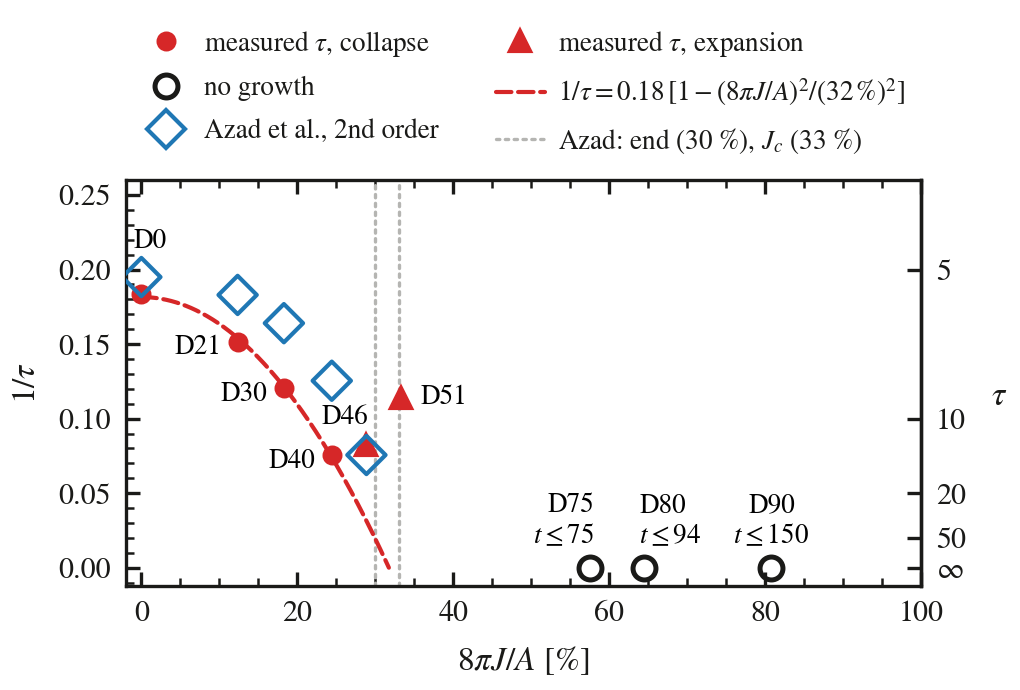
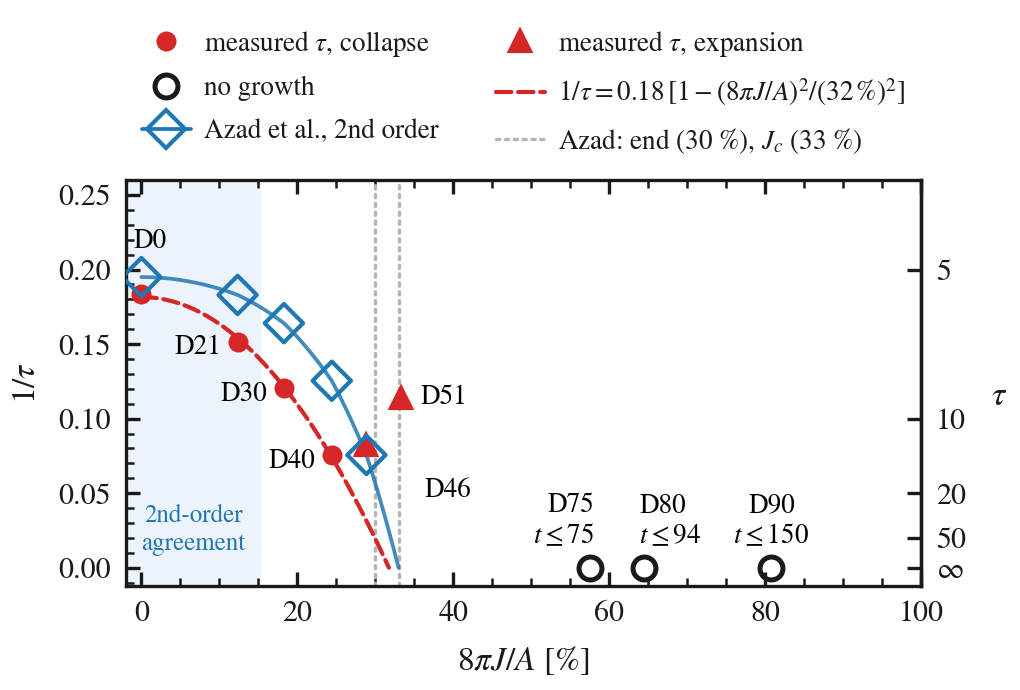
Spinning curve: Azad's J^2 law drawn, 2nd-order agreement band
Their rate drawn as the curve it is, 1/tau = [W0 - DW2 (J/eta0^2)^2]
/ eta0, J mapped onto 8 pi J/A through the rungs' tables -- the
measured collapse rates leave it as spin grows, the O(J^4) gap (0 %
at D0, 10 % at D21 in the continuum, 36/66 % at D30/D40). A light
band to halfway between D21 and D30 marks where the methods agree,
tagged in the frame; the D46 tag moves below the rules, clear of the
new curve. Caption updated; label audit clean.

diff --git a/grteclyn-wrapper/src/grteclyn_wrapper/visualisation/spinning_wormhole/plot_instability_curve.py b/grteclyn-wrapper/src/grteclyn_wrapper/visualisation/spinning_wormhole/plot_instability_curve.py
@@ -116,7 +116,7 @@ TAG_SIDES = {
     "D21": (-4, -1.5, "right", "center"),
     "D30": (-4, -1.5, "right", "center"),
     "D40": (-4, -1.5, "right", "center"),
-    "D46": (0.5, 3.5, "right", "bottom"),
+    "D46": (14, -8, "left", "top"),   # below right, clear of Azad's drawn law and the rules
     "D51": (4.5, 0, "left", "center"),
     # the stable rungs sit 12 pt apart: D75's tag hangs left, D80's right
     "D75": (1, 4.5, "right", "bottom"),
@@ -272,6 +272,15 @@ def draw(points, pal, jc_frac) -> None:
     for x in rules:
         ax.axvline(x, color="#b5b5b2", lw=0.8, ls=":")
     drawn = [p for p in points if p["tau"] is not None or p["stable"]]
+    # 10-21: where the second order should and does hold -- the static and D21
+    # continuum rates sit within 8 % of Azad's values, and from D30 (18 %) the gap
+    # exceeds the resolution bias.  The band ends halfway between the two rungs.
+    fr_by = {p["label"]: p["frac"] for p in points}
+    if "D21" in fr_by and "D30" in fr_by:
+        edge = 0.5 * (fr_by["D21"] + fr_by["D30"])
+        ax.axvspan(-2.0, edge, facecolor="#edf3fa", zorder=0)
+        ax.text(0.5 * (-2.0 + edge), 0.008, "2nd-order\nagreement", fontsize=6.0,
+                ha="center", va="bottom", color=pal["azad"])
     az = [(p["frac"], azad_rate(p["j"])) for p in drawn if azad_rate(p["j"]) > 0]
     if az:
         # Open diamonds over smaller dots: where a rung matches Azad the dot
@@ -279,6 +288,15 @@ def draw(points, pal, jc_frac) -> None:
         # audit sees the diamonds and not the undrawn segments between them.
         ax.scatter(*zip(*az), marker="D", s=6.5 ** 2, facecolors="none",
                    edgecolors=pal["azad"], linewidths=1.0, zorder=5)
+        # 10-21: their law drawn as the curve it is, 1/tau = [W0 - DW2 (J/eta0^2)^2]
+        # / eta0, J mapped onto 8 pi J/A through the rungs' tables (the diamonds'
+        # own mapping): the measured rates leave it as spin grows -- the O(J^4) gap.
+        pj = sorted((p["j"], p["frac"]) for p in drawn)
+        js2 = np.array([q[0] for q in pj])
+        fr2 = np.array([q[1] for q in pj])
+        jg = np.linspace(0.0, ETA0 ** 2 * np.sqrt(AZAD_W0 / AZAD_DW2), 300)
+        ax.plot(np.interp(jg, js2, fr2), azad_rate(jg), ls="-", lw=0.9,
+                color=pal["azad"], alpha=0.85, zorder=3)
     fit = fit_zero(drawn)
     x0 = None
     if fit is not None:
@@ -336,8 +354,9 @@ def draw(points, pal, jc_frac) -> None:
                else "collapse fit")
         entries.append((fit_line, tag))
     if az:
-        entries.append((mlines.Line2D([], [], marker="D", ls="none", ms=6.5, mfc="none",
-                                      mec=pal["azad"], mew=1.0), "Azad et al., 2nd order"))
+        entries.append((mlines.Line2D([], [], marker="D", ls="-", lw=0.9, ms=6.5,
+                                      mfc="none", mec=pal["azad"], mew=1.0,
+                                      color=pal["azad"]), "Azad et al., 2nd order"))
     entries.append((mlines.Line2D([], [], ls=":", lw=0.8, color="#b5b5b2"),
                     "Azad: end (30 %)" + (f", $J_c$ ({jc_frac:.0f} %)" if jc_frac else "")))
     # 2026-10-20: two columns, read row by row (one entry a row took a third of the

diff --git a/research/spinningwormhole/article/research.tex b/research/spinningwormhole/article/research.tex
@@ -342,7 +342,7 @@ Three checks validate the pipeline. (i) At $t=0$ the Hamiltonian and momentum co
 \begin{figure}[t]
 \centering
 \includegraphics[width=\columnwidth]{instability_curve.pdf}
-\caption{The inverse $e$-fold time $1/\tau$ of the throat's areal radius (left axis; $\tau$ on the right) against the angular momentum as a fraction of its extremal value. Filled circles: collapsing models; filled triangles: expanding models; open circles: D75, D80 and D90, no growth within the converged span ($t\le75$, 94, 150); every $\tau$ is the offset-free fit of Sec.~\ref{sec:slow} and a row of Table~\ref{tab:ladder}. Dashed: the fit $a-b\,(J/A)^2$ through the collapse branch alone, zero at $32\%$. Open diamonds: the second-order rates of Refs.~\cite{azad2023,azad2024} at $C=1$; dotted rules: their conjectured end of the instability (${\approx}30\%$) and the zero of their second-order rate ($33\%$). Past the crossing the unperturbed throat expands with a rate that rises with spin.}
+\caption{The inverse $e$-fold time $1/\tau$ of the throat's areal radius (left axis; $\tau$ on the right) against the angular momentum as a fraction of its extremal value. Filled circles: collapsing models; filled triangles: expanding models; open circles: D75, D80 and D90, no growth within the converged span ($t\le75$, 94, 150); every $\tau$ is the offset-free fit of Sec.~\ref{sec:slow} and a row of Table~\ref{tab:ladder}. Dashed: the fit $a-b\,(J/A)^2$ through the collapse branch alone, zero at $32\%$. Open diamonds on the solid curve: the second-order rates and law of Refs.~\cite{azad2023,azad2024} at $C=1$, our family; dotted rules: their conjectured end of the instability (${\approx}30\%$) and the zero of their second-order rate ($33\%$). Shaded: the span where the two methods agree (the static and D21 continuum rates within $8\%$ of theirs); at higher spin the measured rates fall below the second-order law, as the neglected $O(J^4)$ terms grow. Past the crossing the unperturbed throat expands with a rate that rises with spin.}
 \label{fig:curve}
 \end{figure}
 
